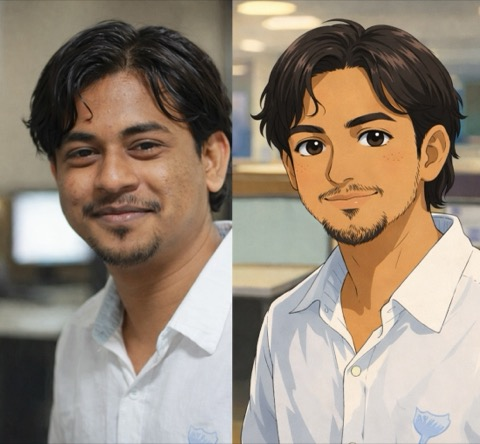
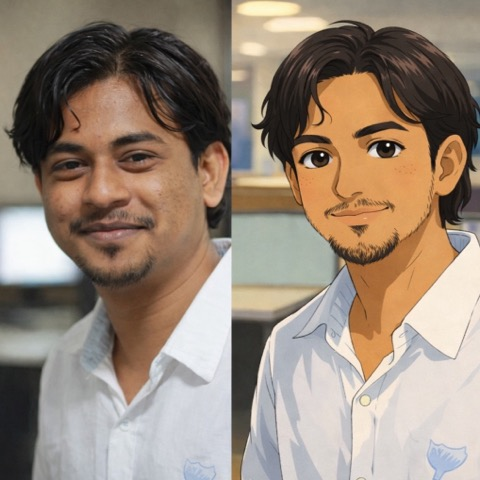
fix(site): show the two-face photo in a circle

diff --git a/src/styles/site.css b/src/styles/site.css
@@ -97,7 +97,7 @@ a:hover {
 .rail img {
   width: 100%;
   height: auto;
-  border-radius: 12px;
+  border-radius: 50%;
 }
 
 .headline {

diff --git a/README.md b/README.md
@@ -50,7 +50,7 @@ This site has no test suite, on purpose. To check a change, build it and look at
 - **A page:** edit its file in `src/content/pages/`. Its `order` sets its place in the top navigation.
 - **Headline, location, links:** edit `src/content/profile.json`. The left rail shows them under the photo.
 - **A blog post:** add a Markdown file to `src/content/blog/` with `title`, `date`, and `summary`.
-- **Photo:** replace `public/portrait.jpg`, a 480px-wide copy of `profile/RealAndGhibli-croped.jpg`. The browser-tab icon is `public/avatar.jpg`.
+- **Photo:** replace `public/portrait.jpg`, a 480×480 center crop of `profile/RealAndGhibli-croped.jpg`, shown as a circle. The browser-tab icon is `public/avatar.jpg`.
 - **Resume:** replace `public/Sudhir_Singh_Resume.pdf`, keeping the name. Experience links to it.
 - **Links to files in `public/`:** make them relative, like `../Sudhir_Singh_Resume.pdf`.
 

diff --git a/docs/progress/2026-10-31T02-05-rail-nav-photo.md b/docs/progress/2026-10-31T02-05-rail-nav-photo.md
@@ -7,13 +7,13 @@
 - Moved the top navigation to the left and removed the name from the top bar.
 - About now opens with "Hey, I'm Sudhir Singh".
 - The left rail shows the role, focus, and location on three lines.
-- Replaced the small round photo with the real and illustrated photo side by side, at about 268px wide.
+- Replaced the small round photo with the real and illustrated photo side by side, in a circle about 268px wide, as the owner asked.
 
 ### Changes
 
 - `src/layouts/SiteLayout.astro`, `src/styles/site.css`: new top bar, a 300px rail, and a larger photo on laptop and phone.
 - `src/content/profile.json`: `headline` split into `role` and `focus`.
-- `public/portrait.jpg`: a 480px-wide copy of `profile/RealAndGhibli-croped.jpg`.
+- `public/portrait.jpg`: a 480×480 center crop of `profile/RealAndGhibli-croped.jpg`.
 - `README.md`: updated for the new photo and profile fields.
 
 ### Decisions
